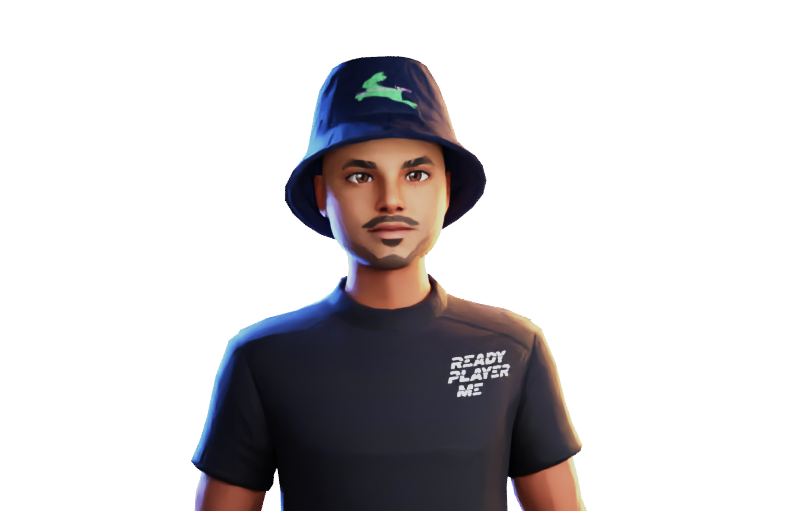
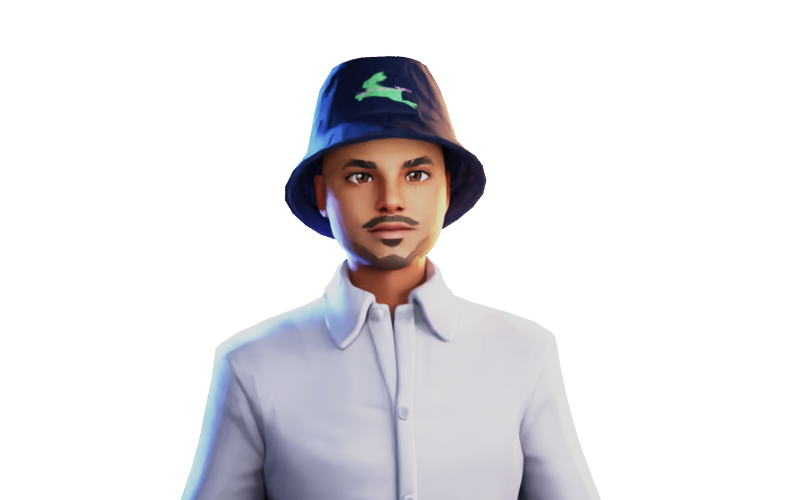
add: section to add new charecter

Changed region(s): [[0.2188, 0.09, 0.75, 1.0], [0.5938, 0.36, 0.625, 0.39]]

diff --git a/components/ui/evervault-card.tsx b/components/ui/evervault-card.tsx
@@ -1,0 +1,107 @@
+"use client";
+import { useMotionValue } from "framer-motion";
+import React, { useState, useEffect } from "react";
+import { useMotionTemplate, motion } from "framer-motion";
+import { cn } from "@/utils/cn";
+
+type EvervaultCardProps = {
+  children?: React.ReactNode;
+  className?: string;
+};
+
+
+export const EvervaultCard = ({ children, className }: EvervaultCardProps) => {
+  let mouseX = useMotionValue(0);
+  let mouseY = useMotionValue(0);
+
+  const [randomString, setRandomString] = useState("");
+
+  useEffect(() => {
+    let str = generateRandomString(1500);
+    setRandomString(str);
+  }, []);
+
+  function onMouseMove({ currentTarget, clientX, clientY }: any) {
+    let { left, top } = currentTarget.getBoundingClientRect();
+    mouseX.set(clientX - left);
+    mouseY.set(clientY - top);
+
+    const str = generateRandomString(1500);
+    setRandomString(str);
+  }
+
+  return (
+    <div
+      className={cn(
+        "p-0.5 bg-transparent aspect-square flex items-center justify-center w-full h-full relative",
+        className
+      )}
+    >
+      <div
+        onMouseMove={onMouseMove}
+        className="group/card rounded-3xl w-full relative overflow-hidden bg-transparent flex items-center justify-center h-full"
+      >
+        <CardPattern
+          mouseX={mouseX}
+          mouseY={mouseY}
+          randomString={randomString}
+        />
+        <div className="relative z-10 flex items-center justify-center">
+          <div className="relative h-44 w-44 rounded-full flex items-center justify-center text-white font-bold text-4xl">
+            <div className="absolute w-full h-full bg-white/[0.8] dark:bg-black/[0.8] blur-sm rounded-full" />
+            <div className="dark:text-white text-black z-20">{children}</div>
+          </div>
+        </div>
+      </div>
+    </div>
+  );
+};
+
+export function CardPattern({ mouseX, mouseY, randomString }: any) {
+  let maskImage = useMotionTemplate`radial-gradient(250px at ${mouseX}px ${mouseY}px, white, transparent)`;
+  let style = { maskImage, WebkitMaskImage: maskImage };
+
+  return (
+    <div className="pointer-events-none">
+      <div className="absolute inset-0 rounded-2xl  [mask-image:linear-gradient(white,transparent)] group-hover/card:opacity-50"></div>
+      <motion.div
+        className="absolute inset-0 rounded-2xl bg-gradient-to-r from-green-500 to-blue-700 opacity-0  group-hover/card:opacity-100 backdrop-blur-xl transition duration-500"
+        style={style}
+      />
+      <motion.div
+        className="absolute inset-0 rounded-2xl opacity-0 mix-blend-overlay  group-hover/card:opacity-100"
+        style={style}
+      >
+        <p className="absolute inset-x-0 text-xs h-full break-words whitespace-pre-wrap text-white font-mono font-bold transition duration-500">
+          {randomString}
+        </p>
+      </motion.div>
+    </div>
+  );
+}
+
+const characters =
+  "ABCDEFGHIJKLMNOPQRSTUVWXYZabcdefghijklmnopqrstuvwxyz0123456789";
+export const generateRandomString = (length: number) => {
+  let result = "";
+  for (let i = 0; i < length; i++) {
+    result += characters.charAt(Math.floor(Math.random() * characters.length));
+  }
+  return result;
+};
+
+export const Icon = ({ className, ...rest }: any) => {
+  return (
+    <svg
+      xmlns="http://www.w3.org/2000/svg"
+      fill="none"
+      viewBox="0 0 24 24"
+      strokeWidth="1.5"
+      stroke="currentColor"
+      className={className}
+      {...rest}
+    >
+      <path strokeLinecap="round" strokeLinejoin="round" d="M12 6v12m6-6H6" />
+    </svg>
+  );
+};

diff --git a/app/page.tsx b/app/page.tsx
@@ -6,6 +6,7 @@ import { motion, AnimatePresence } from "framer-motion";
 import { Sparkles } from "lucide-react";
 import { Button, useDisclosure } from "@nextui-org/react";
 import ModelModalScreen from "@/components/Modal/ModelModalScreen";
+import { CustomChar } from "./CustomCharBtn";
 export default function Home() {
   const displayToggle = true;
   const [isVisible, setIsVisible] = useState(false);
@@ -26,7 +27,7 @@ export default function Home() {
     },
     {
       name: "/char1.png",
-      url: "https://models.readyplayer.me/6684f9a1a62e45bacf363b63.glb",
+      url: "https://models.readyplayer.me/66850492a6014cc4b10c5a00.glb",
     },
     {
       name: "/char2.png",
@@ -87,21 +88,7 @@ export default function Home() {
               variants={variants}
             >
               <div className="bg-slate-600/30 w-full backdrop-blur-lg rounded-xl cursor-pointer hover:border-2 hover:border-blue-500">
-                <Image
-                  className="rounded-xl"
-                  src={"/edit.png"}
-                  style={{
-                    width: "100%",
-                    height: "auto",
-                    aspectRatio: "16/9",
-                    objectFit: "cover",
-                  }}
-                  width={0}
-                  height={0}
-                  sizes="100vw"
-                  alt="Image"
-                  onClick={onOpen}
-                />
+                <CustomChar onOpen={onOpen} />
               </div>
               {ImageList.map((obj, index) => {
                 return (
@@ -122,7 +109,9 @@ export default function Home() {
                       height={0}
                       sizes="100vw"
                       alt="Image"
-                      onClick={() => {setUrl(obj.url+"?morphTargets=ARKit")}}
+                      onClick={() => {
+                        setUrl(obj.url + "?morphTargets=ARKit");
+                      }}
                     />
                   </div>
                 );

diff --git a/app/CustomCharBtn.tsx b/app/CustomCharBtn.tsx
@@ -1,0 +1,27 @@
+import React from "react";
+import { EvervaultCard, Icon } from "@/components/ui/evervault-card";
+import { Image } from "@nextui-org/react";
+export function CustomChar({ onOpen }: { onOpen: () => void }) {
+  return (
+    <div className=" dark:border-white/[0.2] flex flex-col items-start max-w-sm mx-auto p-4 relative ">
+      <EvervaultCard>
+        {" "}
+        <Image
+          className="rounded-xl"
+          src={"/edit.png"}
+          style={{
+            width: "100%",
+            height: "auto",
+            aspectRatio: "16/9",
+            objectFit: "cover",
+          }}
+          width={0}
+          height={0}
+          sizes="100vw"
+          alt="Image"
+          onClick={onOpen}
+        />
+      </EvervaultCard>
+    </div>
+  );
+}

diff --git a/components/VideoView/helper/Avatar.tsx b/components/VideoView/helper/Avatar.tsx
@@ -8,6 +8,7 @@ export interface AvatarProps {
   url: string;
   blendshapes: Category[] | undefined; // Assuming blendshapes is an array of objects
   rotation: Euler | undefined;
+  position: number[];
   // headMesh: any[] | undefined;
 }
 

diff --git a/utils/cn.ts b/utils/cn.ts
@@ -1,0 +1,6 @@
+import { ClassValue, clsx } from "clsx";
+import { twMerge } from "tailwind-merge";
+
+export function cn(...inputs: ClassValue[]) {
+  return twMerge(clsx(inputs));
+}
